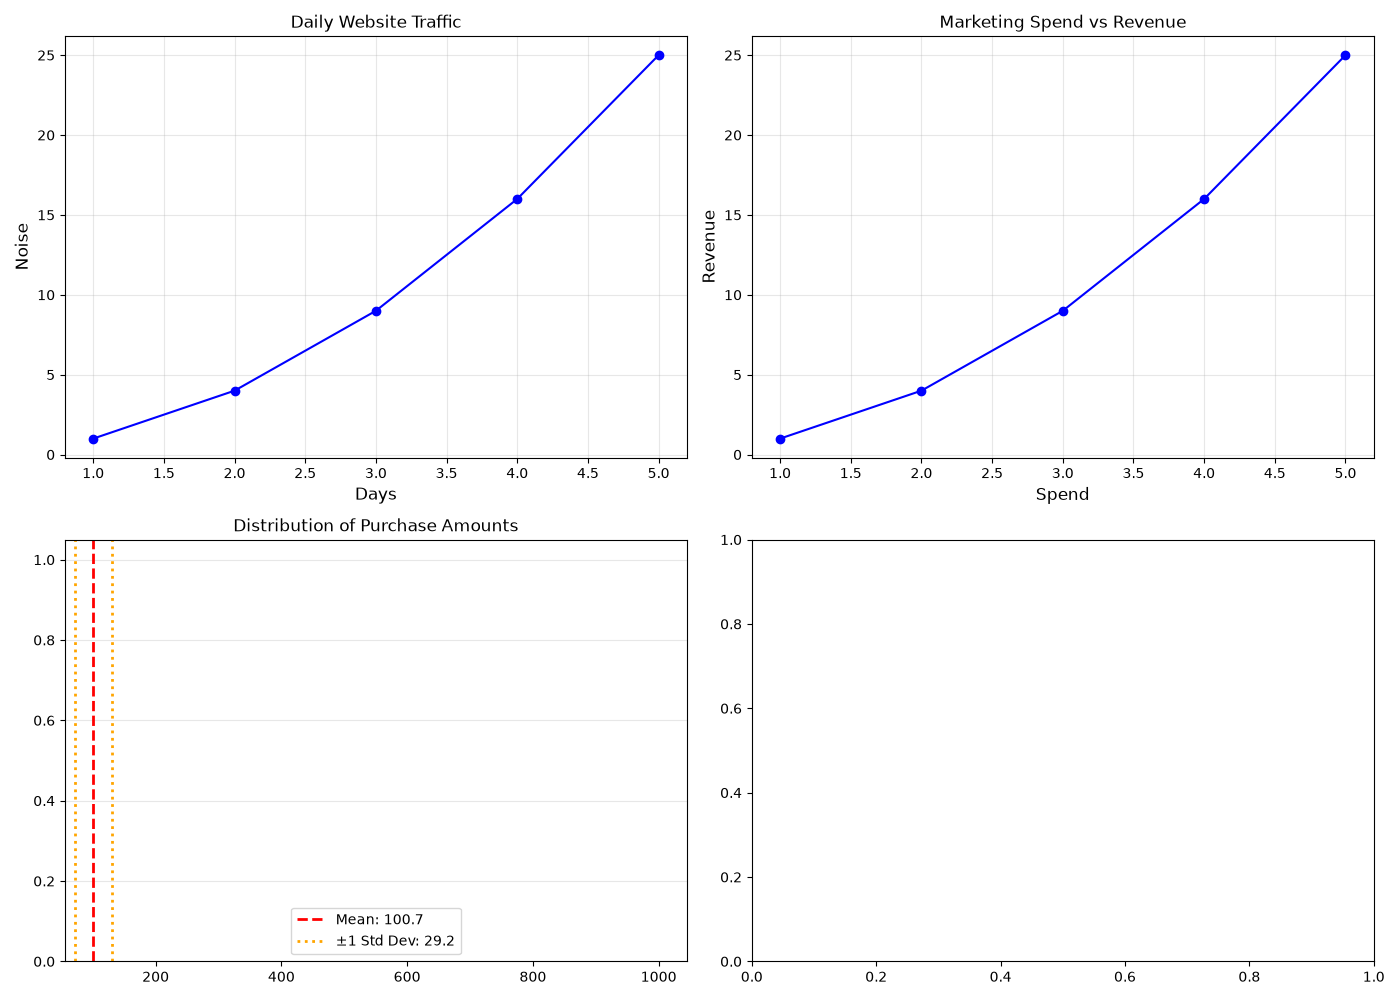
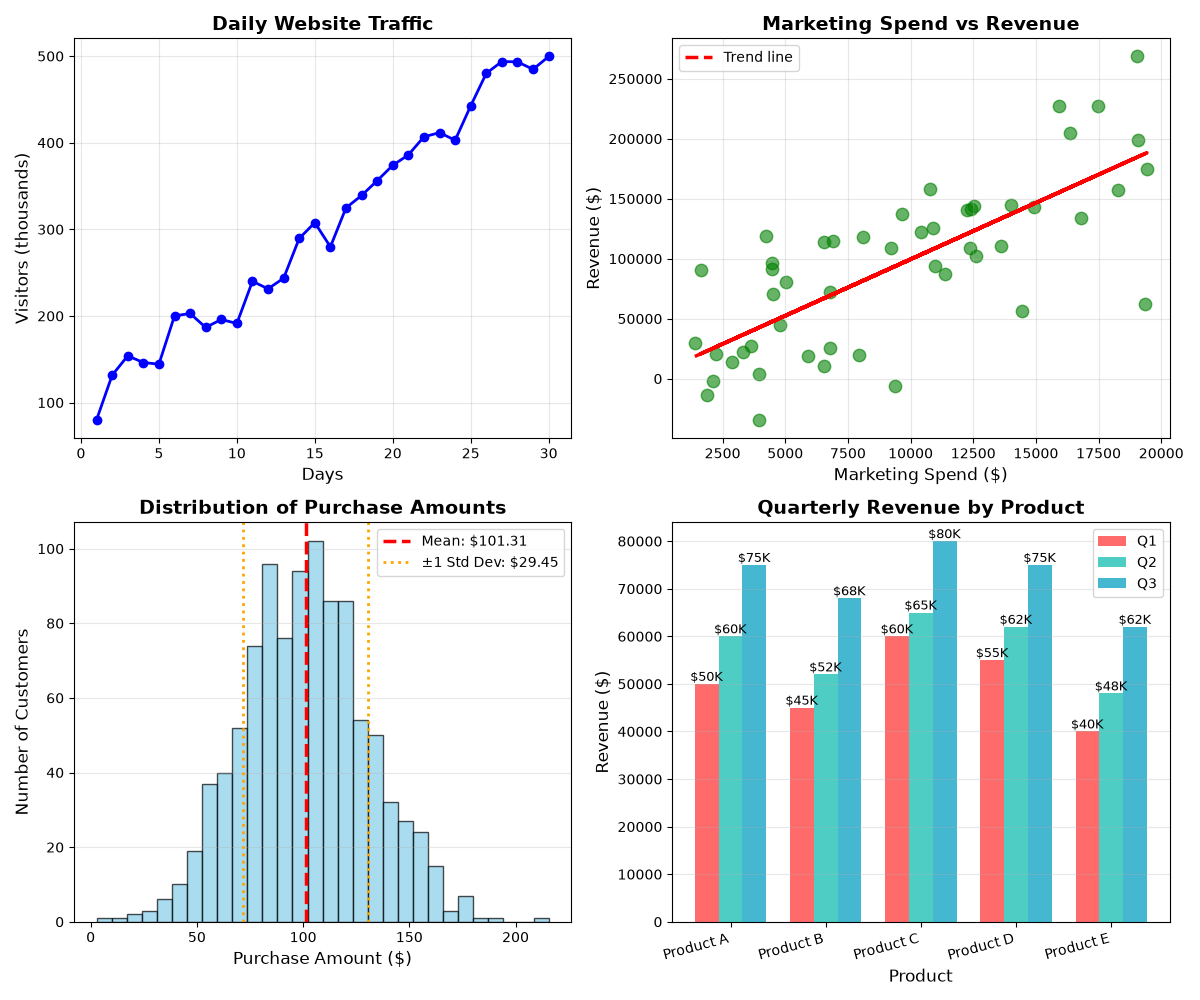
challenge learnt and fixed

diff --git a/data_science/lesson_3_visualization/my_challenges.py b/data_science/lesson_3_visualization/my_challenges.py
@@ -6,54 +6,120 @@ import numpy as np
 print("My challenge 1: Create a comprehensive multi-plot visualization using Matplotlib that tells a story about data.")
 print("-" * 70)
 
-fig, axes = plt.subplots(2,2, figsize=(14,10))
+fig, axes = plt.subplots(2,2, figsize=(12,10))
 
 # Line plot
 # top - left 
-axes[0,0].plot([1, 2, 3, 4, 5], [1, 4, 9, 16, 25], 'b-o')
-axes[0,0].set_title("Daily Website Traffic") 
-axes[0,0].set_xlabel("Days", fontsize=12)
-axes[0,0].set_ylabel("Noise", fontsize=12)
-axes[0,0].grid(True, alpha=0.3) 
+print("Plot 1: Daily Website Traffic (Line Plot)")
+print("-" * 70)
+
+# Create 30 days of data with increasing trend + noise
+days = np.arange(1, 31) # 30 days
+
+# Traffic increases from 100 to 500 with random noise
+base_traffic = np.linspace(100, 500, 30)
+noise = np.random.randn(30) * 20 # Add realistic noise
+traffic = base_traffic + noise
+
+# The Plot
+axes[0,0].plot(days, traffic, 'b-o', linewidth=2, markersize=6)
+axes[0, 0].set_title("Daily Website Traffic", fontsize=14, fontweight='bold')
+axes[0, 0].set_xlabel("Days", fontsize=12)
+axes[0, 0].set_ylabel("Visitors (thousands)", fontsize=12)   
+axes[0, 0].grid(True, alpha=0.3)
 
 # Scatter plot
 # top - right
-axes[0,1].plot([1, 2, 3, 4, 5], [1, 4, 9, 16, 25], 'b-o')
-axes[0,1].set_title("Marketing Spend vs Revenue")
-axes[0,1].set_xlabel("Spend", fontsize=12)
-axes[0,1].set_ylabel("Revenue", fontsize=12)
-axes[0,1].grid(True, alpha=0.3)
+print("Plot 2: Marketing Spend vs Revenue (Scatter + Trend Line)")
+print("-" * 70)
 
+# Create realistic data: more spending → more revenue
+np.random.seed(42)
+marketing_spend = np.random.uniform(1000, 20000, 50)  # $1K to $20K
+# Revenue correlates with spending: revenue = 10 * spend + noise
+revenue = 10 * marketing_spend + np.random.randn(50) * 50000
+
+# Scatter plot
+axes[0, 1].scatter(marketing_spend, revenue, alpha=0.6, s=80, color='green')
+
+# Add trend line (regression line)
+z = np.polyfit(marketing_spend, revenue, 1)
+p = np.poly1d(z)
+axes[0, 1].plot(marketing_spend, p(marketing_spend), "r--", linewidth=2.5, label="Trend line")
+
+axes[0, 1].set_title("Marketing Spend vs Revenue", fontsize=14, fontweight='bold')
+axes[0, 1].set_xlabel("Marketing Spend ($)", fontsize=12)
+axes[0, 1].set_ylabel("Revenue ($)", fontsize=12)
+axes[0, 1].legend()
+axes[0, 1].grid(True, alpha=0.3)
 
 # Histogram plot
 # bottom - left
-test_scores = np.random.normal(100, 30, 1000)
-mean_score = test_scores.mean()
-std_score = test_scores.std()
+print("Plot 3: Distribution of Purchase Amounts (Histogram)")
+print("-" * 70)
 
-data = np.random.normal(1000)
-axes[1, 0].hist(data, bins=30, color='green', alpha=0.7)
-axes[1, 0].set_title("Distribution of Purchase Amounts")
-axes[1, 0].axvline(mean_score, color='red', linestyle='--', linewidth=2, label=f'Mean: {mean_score:.1f}')
-axes[1, 0].axvline(mean_score - std_score, color='orange', linestyle=':', linewidth=2, label=f'±1 Std Dev: {std_score:.1f}')
-axes[1, 0].axvline(mean_score + std_score, color='orange', linestyle=':', linewidth=2)
+# Create customer purchase amounts: mean=$100, std_dev=$30, 1000 customers
+purchase_amounts = np.random.normal(100, 30, 1000)  # FIXED: was np.random.normal(1000)
+
+# Create histogram
+axes[1, 0].hist(purchase_amounts, bins=30, color='skyblue',
+                edgecolor='black', alpha=0.7)
+
+# Calculate statistics
+mean_amount = purchase_amounts.mean()
+std_amount = purchase_amounts.std()
+
+# Add mean line
+axes[1, 0].axvline(mean_amount, color='red', linestyle='--',
+                   linewidth=2.5, label=f'Mean: ${mean_amount:.2f}')
+
+# Add ±1 standard deviation lines
+axes[1, 0].axvline(mean_amount - std_amount, color='orange',
+                   linestyle=':', linewidth=2,
+                   label=f'±1 Std Dev: ${std_amount:.2f}')
+axes[1, 0].axvline(mean_amount + std_amount, color='orange',
+                   linestyle=':', linewidth=2)
+
+axes[1, 0].set_title("Distribution of Purchase Amounts", fontsize=14, fontweight='bold')
+axes[1, 0].set_xlabel("Purchase Amount ($)", fontsize=12)
+axes[1, 0].set_ylabel("Number of Customers", fontsize=12)
 axes[1, 0].legend()
 axes[1, 0].grid(True, alpha=0.3, axis='y')
  
  
 # Bar chart
 # bottom - right
-products = ['Python', 'JavaScript', 'Java', 'C++', 'Go', 'Rust']
-quarters = ['Q1', 'Q2', 'Q3']
-bars = axes[1, 1].bar(products, quarters, color=['#FF6B6B', '#4ECDC4', '#45B7D1', '#FFA07A', '#98D8C8', '#F7DC6F'])
+print("Plot 4: Quarterly Revenue by Product (Grouped Bar Chart)")
+print("-" * 70)
 
-for i, (bar, sale) in enumerate(zip(bars, quarters)):
-    axes[1, 1].text(bar.get_x() + bar.get_width()/2, sale + 10,
-            str(sale), ha='center', va='bottom', fontweight='bold') 
-    
-axes[1, 1].set_xlabel("Programming Language", fontsize=12)
-axes[1, 1].set_ylabel("Quarters", fontsize=12)
-axes[1, 1].set_title("Quarterly Revenue by Product")
+# Create quarterly revenue data for 5 products
+products = ['Product A', 'Product B', 'Product C', 'Product D', 'Product E']
+Q1_revenue = [50000, 45000, 60000, 55000, 40000]
+Q2_revenue = [60000, 52000, 65000, 62000, 48000]
+Q3_revenue = [75000, 68000, 80000, 75000, 62000]
+
+# Create grouped bar chart
+x = np.arange(len(products))
+width = 0.25  # Width of bars
+
+bars1 = axes[1, 1].bar(x - width, Q1_revenue, width, label='Q1', color='#FF6B6B')
+bars2 = axes[1, 1].bar(x, Q2_revenue, width, label='Q2', color='#4ECDC4')
+bars3 = axes[1, 1].bar(x + width, Q3_revenue, width, label='Q3', color='#45B7D1')
+
+# Add value labels on bars
+for bars in [bars1, bars2, bars3]:
+    for bar in bars:
+        height = bar.get_height()
+        axes[1, 1].text(bar.get_x() + bar.get_width()/2., height,
+                       f'${int(height/1000)}K',
+                       ha='center', va='bottom', fontsize=9)
+
+axes[1, 1].set_title("Quarterly Revenue by Product", fontsize=14, fontweight='bold')
+axes[1, 1].set_xlabel("Product", fontsize=12)
+axes[1, 1].set_ylabel("Revenue ($)", fontsize=12)
+axes[1, 1].set_xticks(x)
+axes[1, 1].set_xticklabels(products, rotation=15, ha='right')
+axes[1, 1].legend()
 axes[1, 1].grid(True, alpha=0.3, axis='y')
 
 
